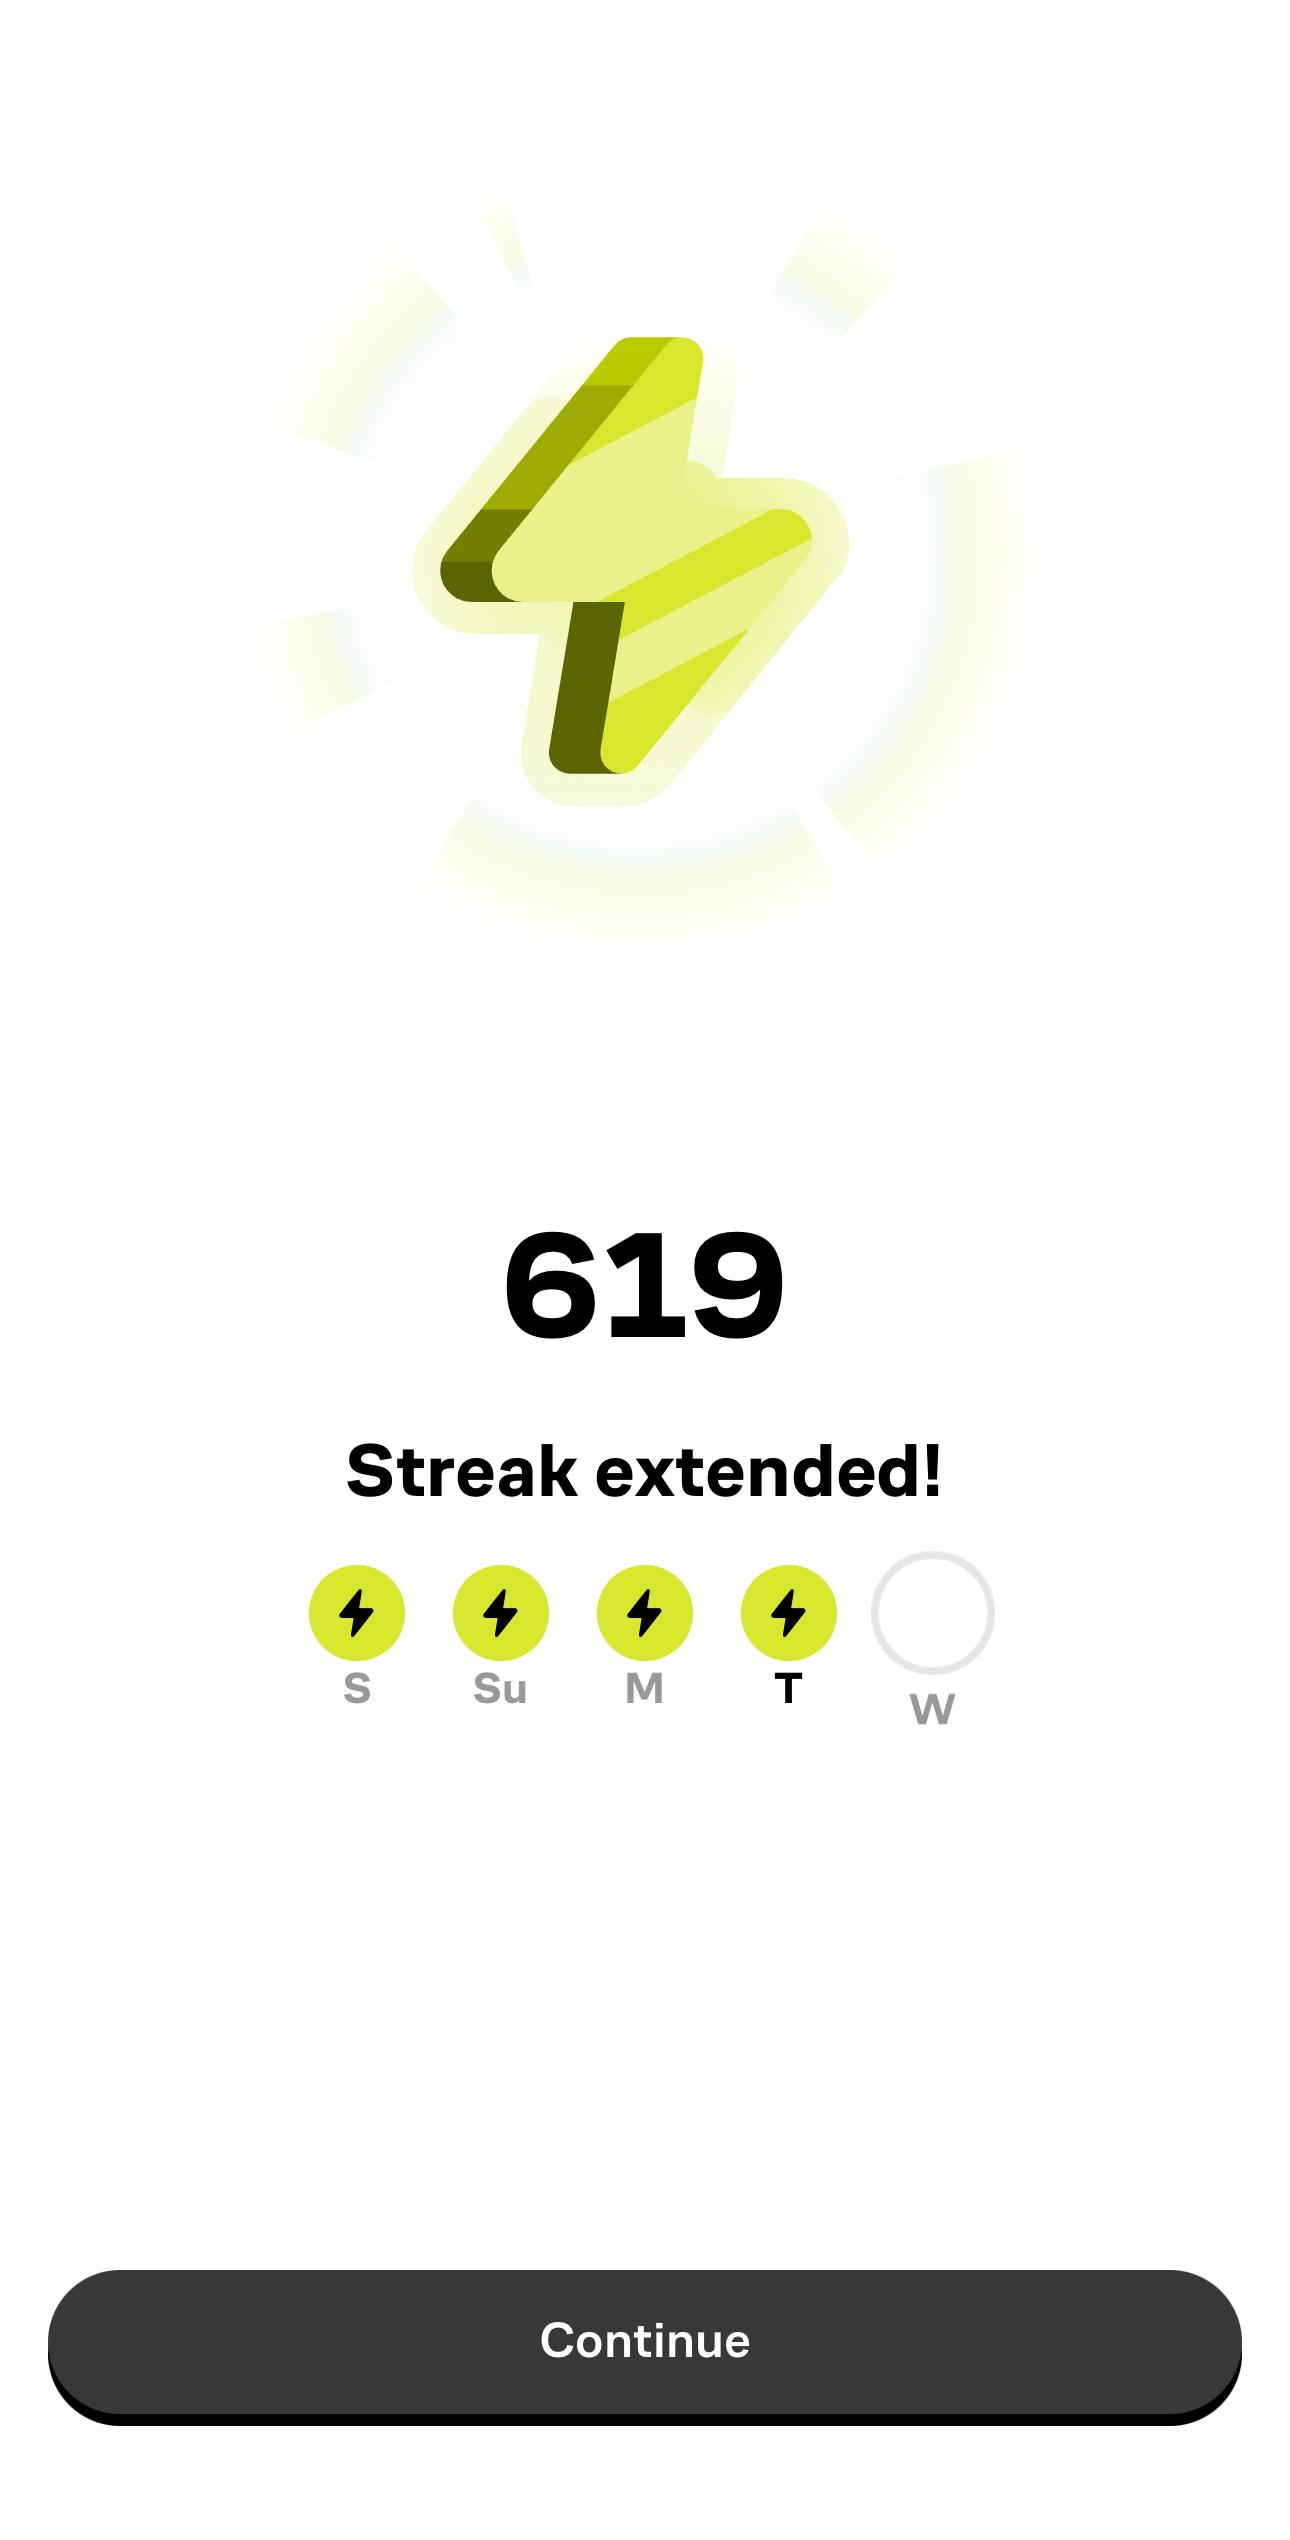
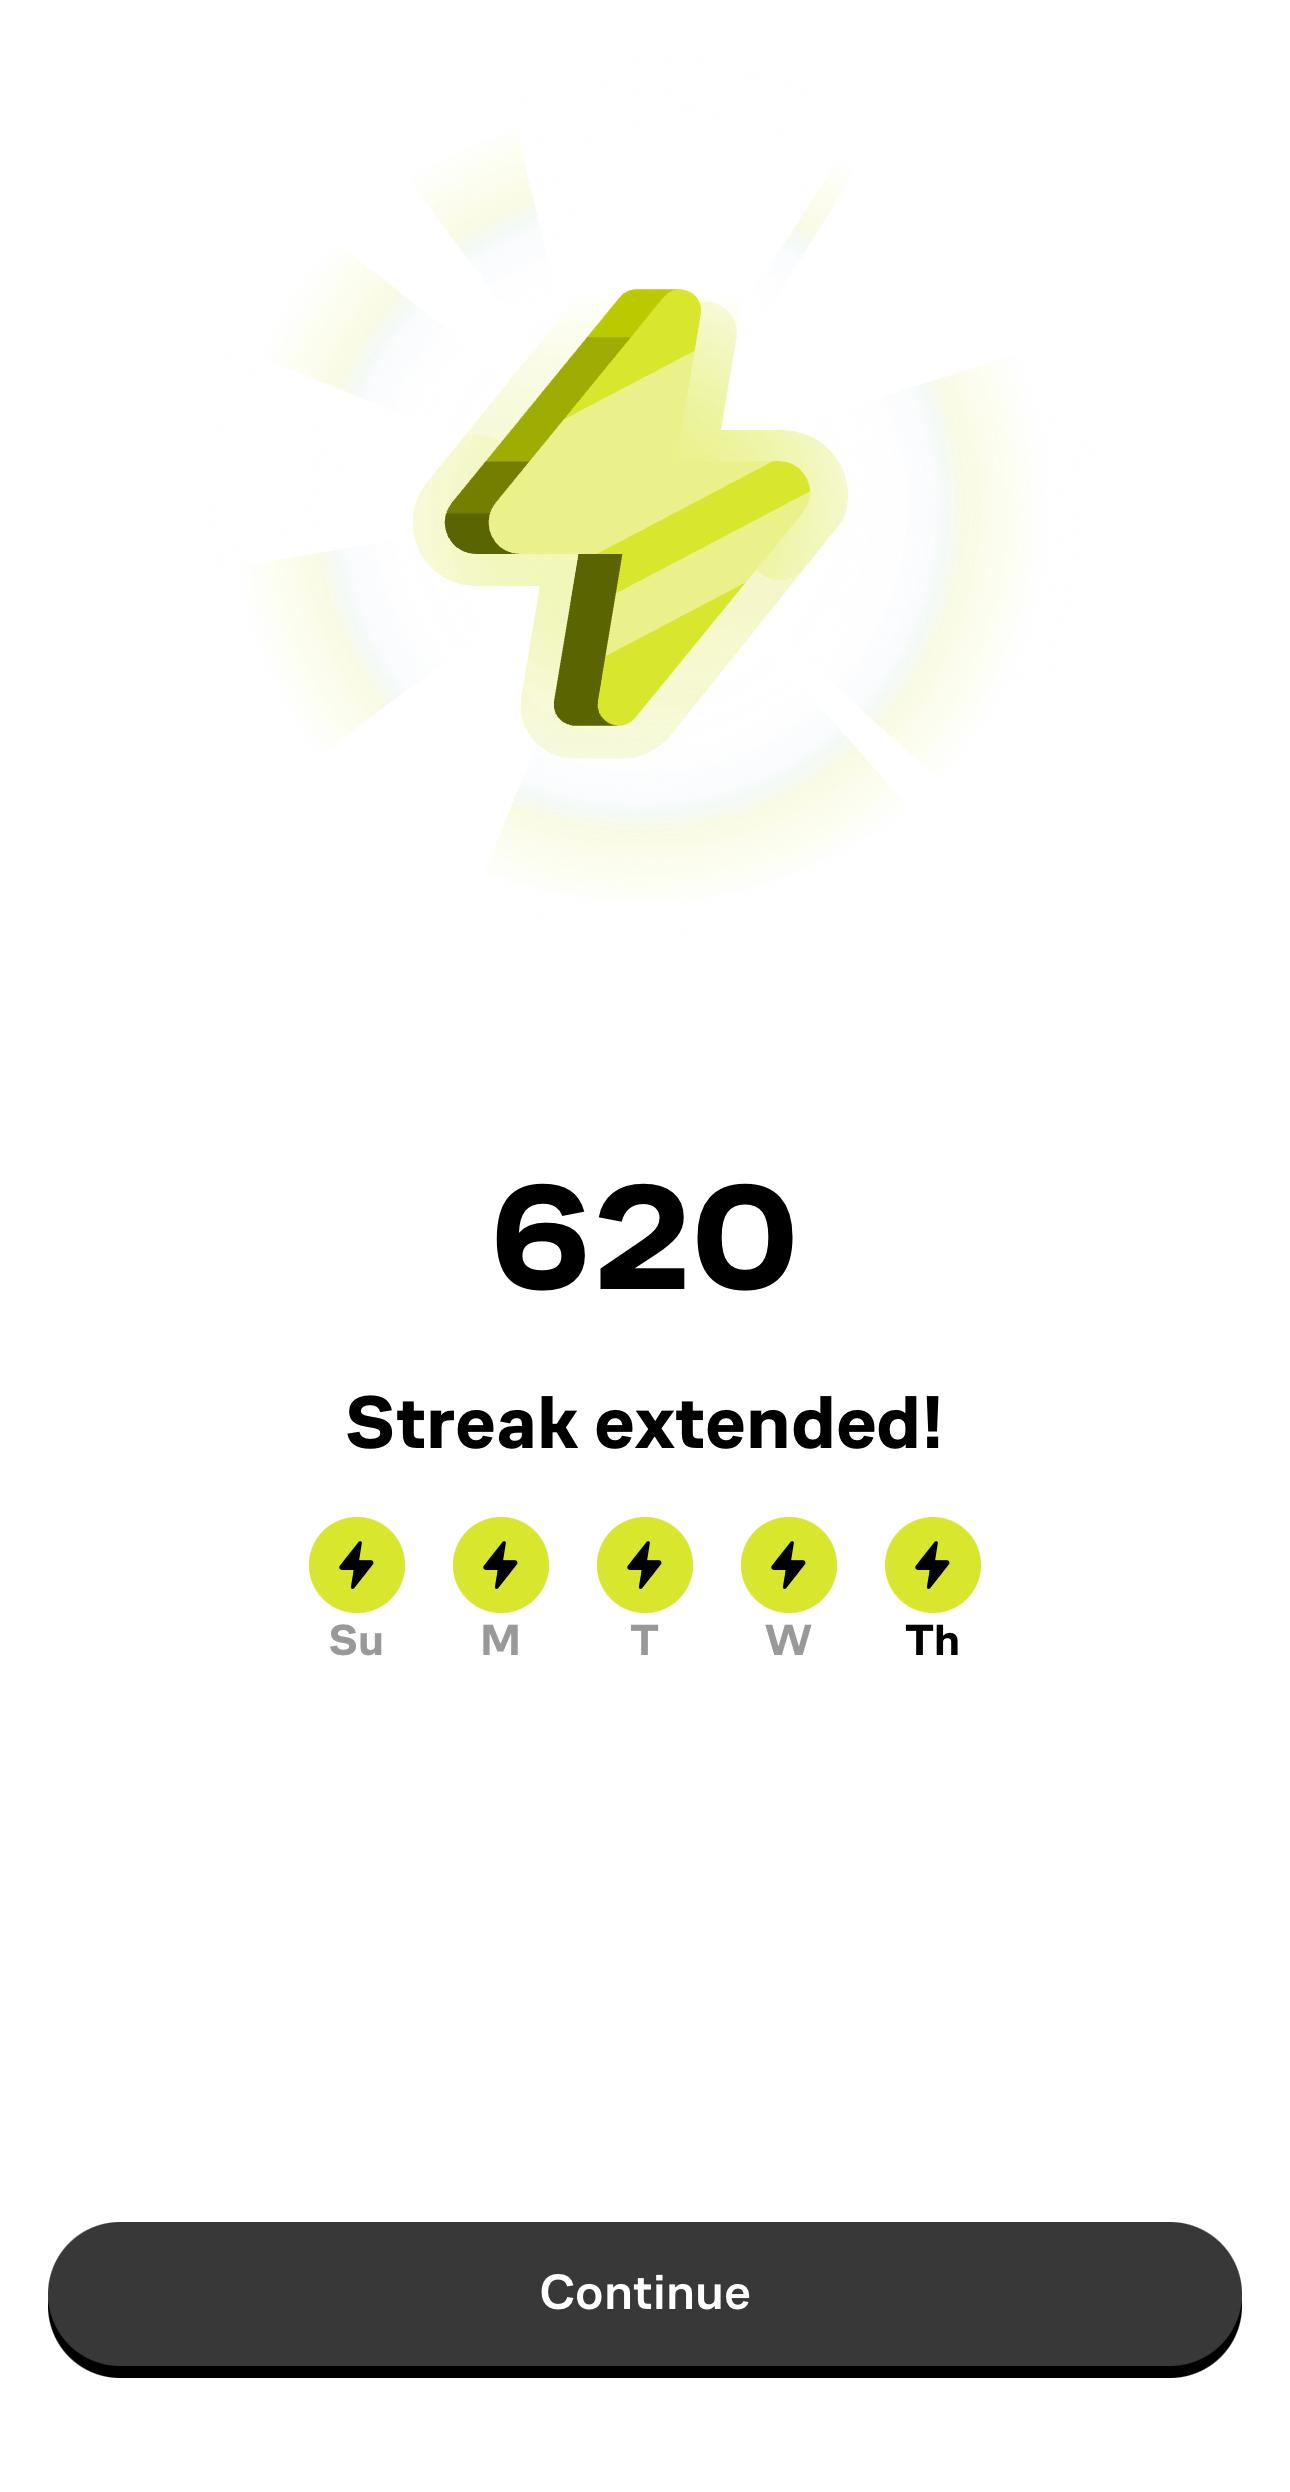
update day 1319

diff --git a/README.md b/README.md
@@ -1,6 +1,22 @@
 # productivity-hub
-Learning Progress Till Now -> 1318 days (13/02/2023 to 23/09/2026)
+Learning Progress Till Now -> 1319 days (13/02/2023 to 24/09/2026)
 <details><summary><u>Day 1311 - Day 1320 ~ Septermber 16, 2026 - September 25, 2026</u></summary><p>
+<details><summary><u>Day 1319</u></summary><p>
+
+- ✔ [Completed Daily Workout Problem in Elevate](https://github.com/rohan-cce/productivity-hub/blob/main/images/elevate/D1201-D1300/d1319e1.png)
+- ✔ [Completed Daily Workout Problem in lumosity](https://github.com/rohan-cce/productivity-hub/blob/main/images/lumosity/D1201-D1300/d1319ls1.png)
+- ✔ [Completed One Challenge in Brilliant](https://github.com/rohan-cce/productivity-hub/blob/main/images/brilliant/D1201-D1800/d1319b1.png)
+- ✔ Chess.com 
+  - ✔ [Solved Some Puzzles](https://github.com/rohan-cce/productivity-hub/blob/main/images/chess/D1201-D1300/d1319chs1.png)
+  - ✔ [Played Puzzle Rush](https://github.com/rohan-cce/productivity-hub/blob/main/images/chess/D1201-D1300/d1319chs2.png)
+  - ✔ [Played puzzle battle with random person](https://github.com/rohan-cce/productivity-hub/blob/main/images/chess/D1201-D1300/d1319chs3.png)
+  - ✔ [Solved Daily Puzzle](https://github.com/rohan-cce/productivity-hub/blob/main/images/chess/D1201-D1300/d1319chs4.png)
+- 💻 Technical / Curiosity Learning
+  - 💻 [Youtube case study -> "Riyadh Air’s Insane Strategy "](https://youtu.be/jC8nAGDe2b8)
+  - 💻 [Java Blog read -> "Capitalize the First Letter of a String in Java"](https://www.baeldung.com/java-string-uppercase-first-letter)
+- 📰 [Daily English News -> "AI tools generated nearly $1 billion in extra costs, Blue Cross insurers say"](https://www.reuters.com/legal/litigation/ai-tools-generated-nearly-1-billion-extra-costs-blue-cross-insurers-say-2026-09-24/)
+- 💰📈 [Finshots ~ "Why gold worries the Prime Minister"](https://finshots.in/archive/why-gold-worries-the-prime-minister/)
+</p></details>
 <details><summary><u>Day 1318</u></summary><p>
 
 - ✔ [Completed Daily Workout Problem in Elevate](https://github.com/rohan-cce/productivity-hub/blob/main/images/elevate/D1201-D1300/d1318e1.png)

diff --git a/tasks.md b/tasks.md
@@ -1,6 +1,22 @@
 # productivity-hub
-Learning Progress Till Now -> 1318 days (13/02/2023 to 23/09/2026)
+Learning Progress Till Now -> 1319 days (13/02/2023 to 24/09/2026)
 <details><summary><u>Day 1311 - Day 1320 ~ Septermber 16, 2026 - September 25, 2026</u></summary><p>
+<details><summary><u>Day 1319</u></summary><p>
+
+- ✔ [Completed Daily Workout Problem in Elevate](https://github.com/rohan-cce/productivity-hub/blob/main/images/elevate/D1201-D1300/d1319e1.png)
+- ✔ [Completed Daily Workout Problem in lumosity](https://github.com/rohan-cce/productivity-hub/blob/main/images/lumosity/D1201-D1300/d1319ls1.png)
+- ✔ [Completed One Challenge in Brilliant](https://github.com/rohan-cce/productivity-hub/blob/main/images/brilliant/D1201-D1800/d1319b1.png)
+- ✔ Chess.com 
+  - ✔ [Solved Some Puzzles](https://github.com/rohan-cce/productivity-hub/blob/main/images/chess/D1201-D1300/d1319chs1.png)
+  - ✔ [Played Puzzle Rush](https://github.com/rohan-cce/productivity-hub/blob/main/images/chess/D1201-D1300/d1319chs2.png)
+  - ✔ [Played puzzle battle with random person](https://github.com/rohan-cce/productivity-hub/blob/main/images/chess/D1201-D1300/d1319chs3.png)
+  - ✔ [Solved Daily Puzzle](https://github.com/rohan-cce/productivity-hub/blob/main/images/chess/D1201-D1300/d1319chs4.png)
+- 💻 Technical / Curiosity Learning
+  - 💻 [Youtube case study -> "Riyadh Air’s Insane Strategy "](https://youtu.be/jC8nAGDe2b8)
+  - 💻 [Java Blog read -> "Capitalize the First Letter of a String in Java"](https://www.baeldung.com/java-string-uppercase-first-letter)
+- 📰 [Daily English News -> "AI tools generated nearly $1 billion in extra costs, Blue Cross insurers say"](https://www.reuters.com/legal/litigation/ai-tools-generated-nearly-1-billion-extra-costs-blue-cross-insurers-say-2026-09-24/)
+- 💰📈 [Finshots ~ "Why gold worries the Prime Minister"](https://finshots.in/archive/why-gold-worries-the-prime-minister/)
+</p></details>
 <details><summary><u>Day 1318</u></summary><p>
 
 - ✔ [Completed Daily Workout Problem in Elevate](https://github.com/rohan-cce/productivity-hub/blob/main/images/elevate/D1201-D1300/d1318e1.png)
